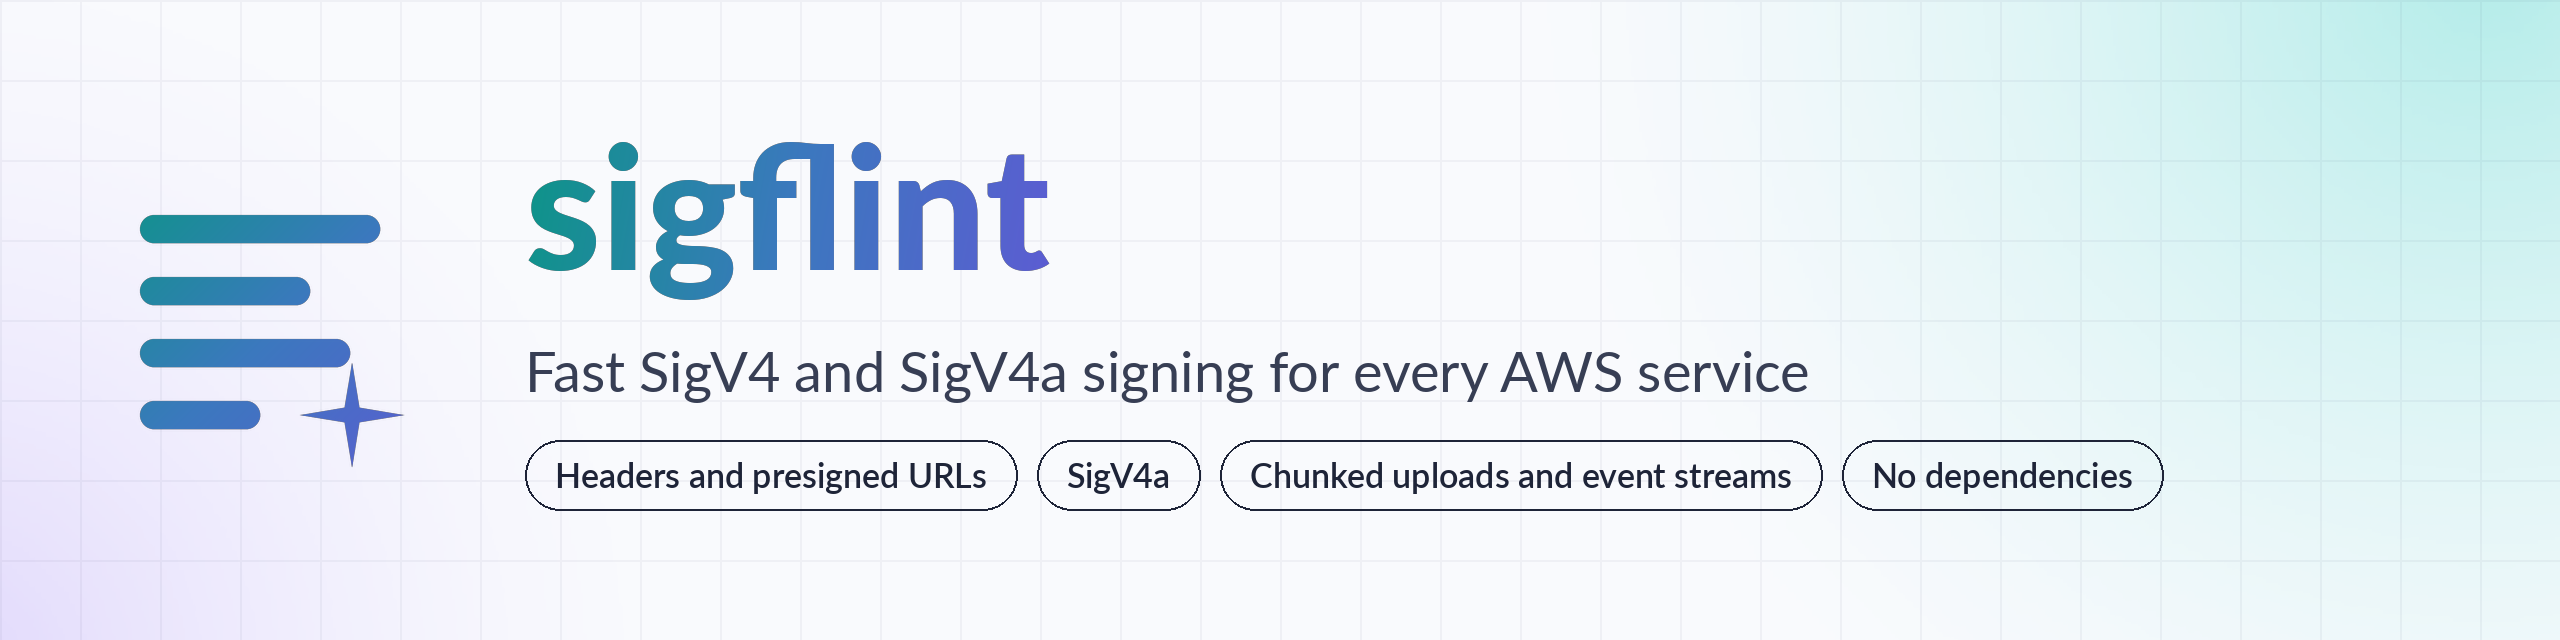
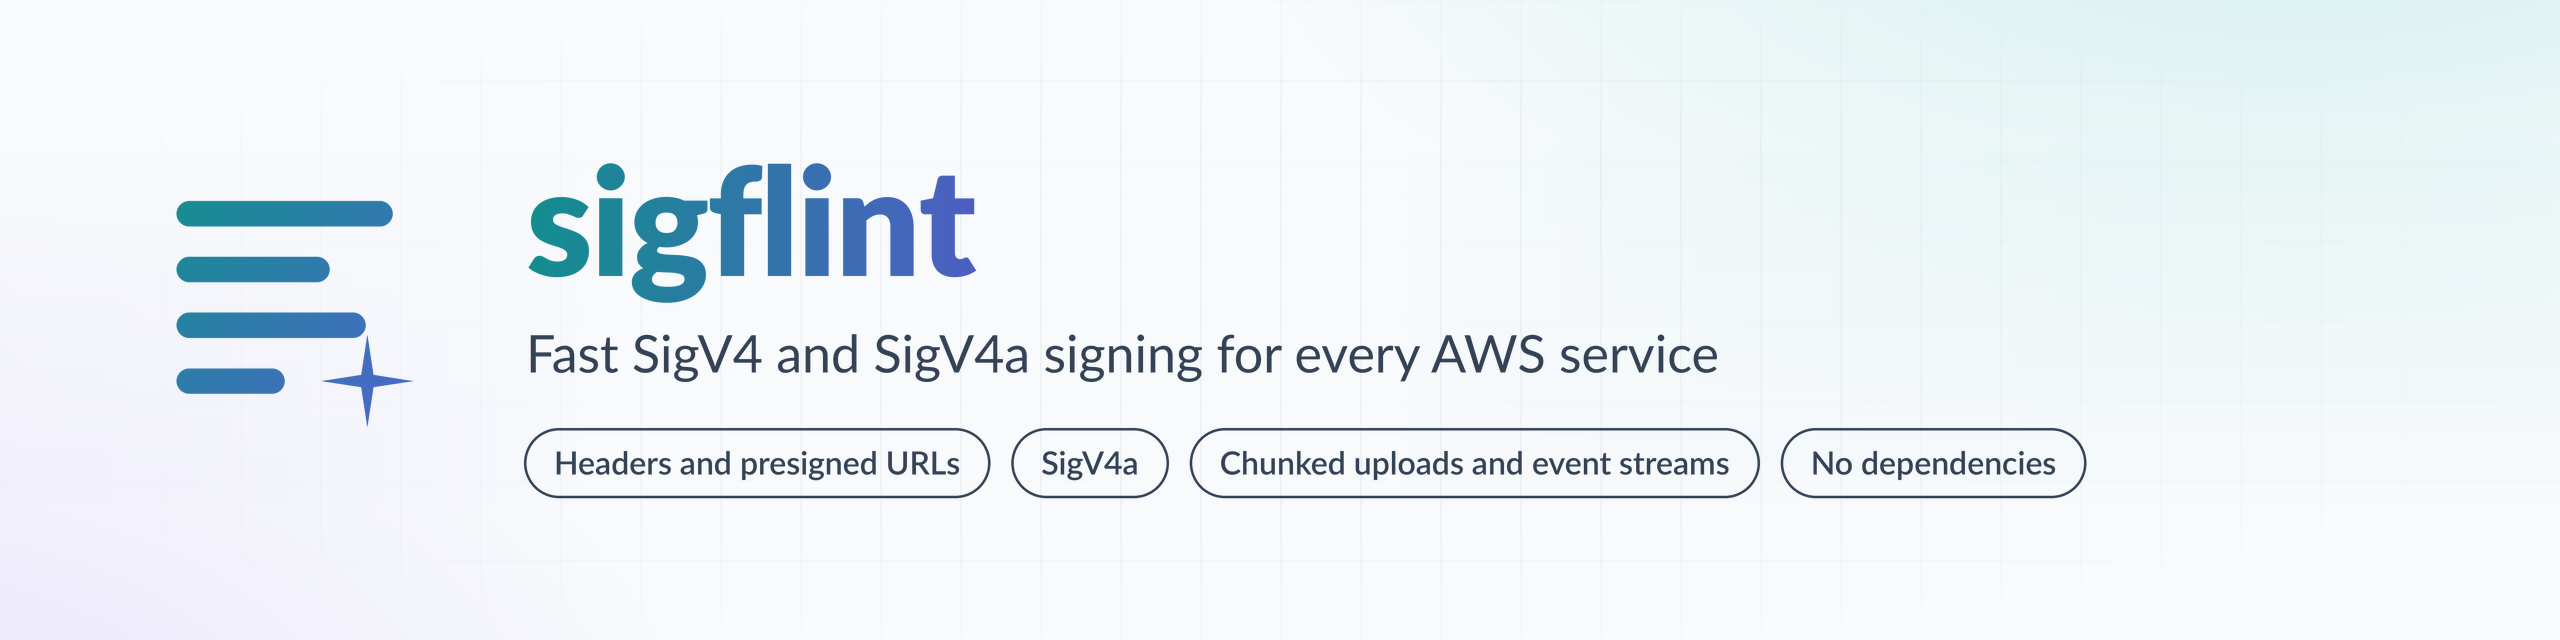
Align the README header with the other repositories and say what was tried live
The banner is redrawn on the house-rules and swarmail geometry (logo, title, tagline and chip positions and sizes, background) in light and dark; the wording and logo are unchanged. A badge row follows (CI, GitHub release, npm, license) and a text line links the four feature chips, which the banner only shows as pictures. The README and the benchmarks page now say the only server tried is a local s3s-fs on loopback, with header-signed requests, and that AWS S3 was not tried.

diff --git a/README.md b/README.md
@@ -5,6 +5,20 @@
   </picture>
 </h1>
 
+<p align="center">
+  <a href="https://github.com/bompus/sigflint/actions/workflows/ci.yml"><img src="https://github.com/bompus/sigflint/actions/workflows/ci.yml/badge.svg" alt="CI status"></a>
+  <a href="https://github.com/bompus/sigflint/releases/latest"><img src="https://badgen.net/github/release/bompus/sigflint" alt="Latest GitHub release"></a>
+  <a href="https://www.npmjs.com/package/sigflint"><img src="https://badgen.net/npm/v/sigflint" alt="Latest sigflint version on npm"></a>
+  <a href="LICENSE"><img src="https://badgen.net/badge/license/MIT/blue" alt="MIT license"></a>
+</p>
+
+<p align="center">
+  <a href="docs/guide.md#usage">Headers and presigned URLs</a> ·
+  <a href="docs/guide.md#sigv4a-multi-region">SigV4a</a> ·
+  <a href="docs/guide.md#chunked-uploads">Chunked uploads and event streams</a> ·
+  <a href="package.json">No dependencies</a>
+</p>
+
 Fast AWS Signature Version 4 request signing for every AWS service, with no dependencies. It runs on Node.js, Bun, Deno, Cloudflare Workers and browsers.
 
 ```js
@@ -58,7 +72,7 @@ For a large or binary body, skip hashing and send `unsignedPayload: true`. S3 ac
 const headers = await getAuthHeaders({ method: 'PUT', url, region, unsignedPayload: true }, credentials);
 ```
 
-For another S3-compatible service, pass its region name and URL (`https://us-sea-1.linodeobjects.com/bucket/key`, `http://127.0.0.1:9000/bucket/key`). These are examples of the form, not endpoints that were tried: signatures are checked against botocore, the AWS CRT, the AWS SDK's signer and the AWS documentation examples, and nothing has been sent to AWS S3 or any other server, so a service that canonicalizes requests differently from S3 may reject them.
+For another S3-compatible service, pass its region name and URL (`https://us-sea-1.linodeobjects.com/bucket/key`, `http://127.0.0.1:9000/bucket/key`). These are examples of the form, not endpoints that were tried. Signatures are checked against botocore, the AWS CRT, the AWS SDK's signer and the AWS documentation examples. Nothing has been sent to AWS S3, so a service that canonicalizes requests differently from S3 may reject them. The only server tried is a local `s3s-fs` 0.17.0 test server on loopback, once, with header-signed requests (create a bucket, `PUT`, `GET`, list): it accepted them, except that it rejected sigflint's signature for a raw `+` in the path, so write `%2B` ([how the path is read](docs/guide.md#how-it-reads-the-url)).
 
 More in the [guide](docs/guide.md): [other services](docs/guide.md#other-services), [presigned URLs](docs/guide.md#presigned-urls), [SigV4a](docs/guide.md#sigv4a-multi-region), [chunked uploads](docs/guide.md#chunked-uploads), [event streams](docs/guide.md#event-streams), why to always `await`, and the [full API](docs/guide.md#api).
 

diff --git a/docs/benchmarks.md b/docs/benchmarks.md
@@ -277,5 +277,5 @@ Each runs against the synchronous source, the built file that Node and Bun load,
 - Machine: one shared Linux host, normal priority, no CPU pinning. Versions of everything are in `bench/frozen/versions.txt`, except Node: the runtime grid ran on Node 26.11.1 (the version in that file), and the speed, memory and import figures on Node 26.12.0. The correctness comparison did not record a Node version.
 - Other services, presigned URLs and the check against the pre-split build: a second protocol, written before the runs ([`bench/protocol-more.md`](../bench/protocol-more.md)), run on the final code; raw results in `bench/results/speed-regression.jsonl` and `speed-more.jsonl`.
 - Not timed: `Bun.S3Client.presign` (a different request) and `@aws-lite/client` (wraps `aws4`).
-- Not tested: real Cloudflare, real AWS (the signatures are checked against botocore, the AWS CRT and the AWS SDK's signer, not against a live server). SigV4a, chunked uploads and event streams have not been sent to a service.
+- Not tested: real Cloudflare and real AWS. The signatures are checked against botocore, the AWS CRT and the AWS SDK's signer; the only live server tried is a local `s3s-fs` 0.17.0 on loopback, once, with header-signed requests (see the guide on a raw `+`). SigV4a, presigned URLs, chunked uploads and event streams have not been sent to any service.
 - Reproduce: `cd bench && npm ci && node screen.mjs ../src/node.js && ./run-matrix.sh "$PWD/frozen" "$PWD/results/speed-raw.jsonl" && node analyze.mjs && node sizes.mjs && node make-assets.mjs`.
